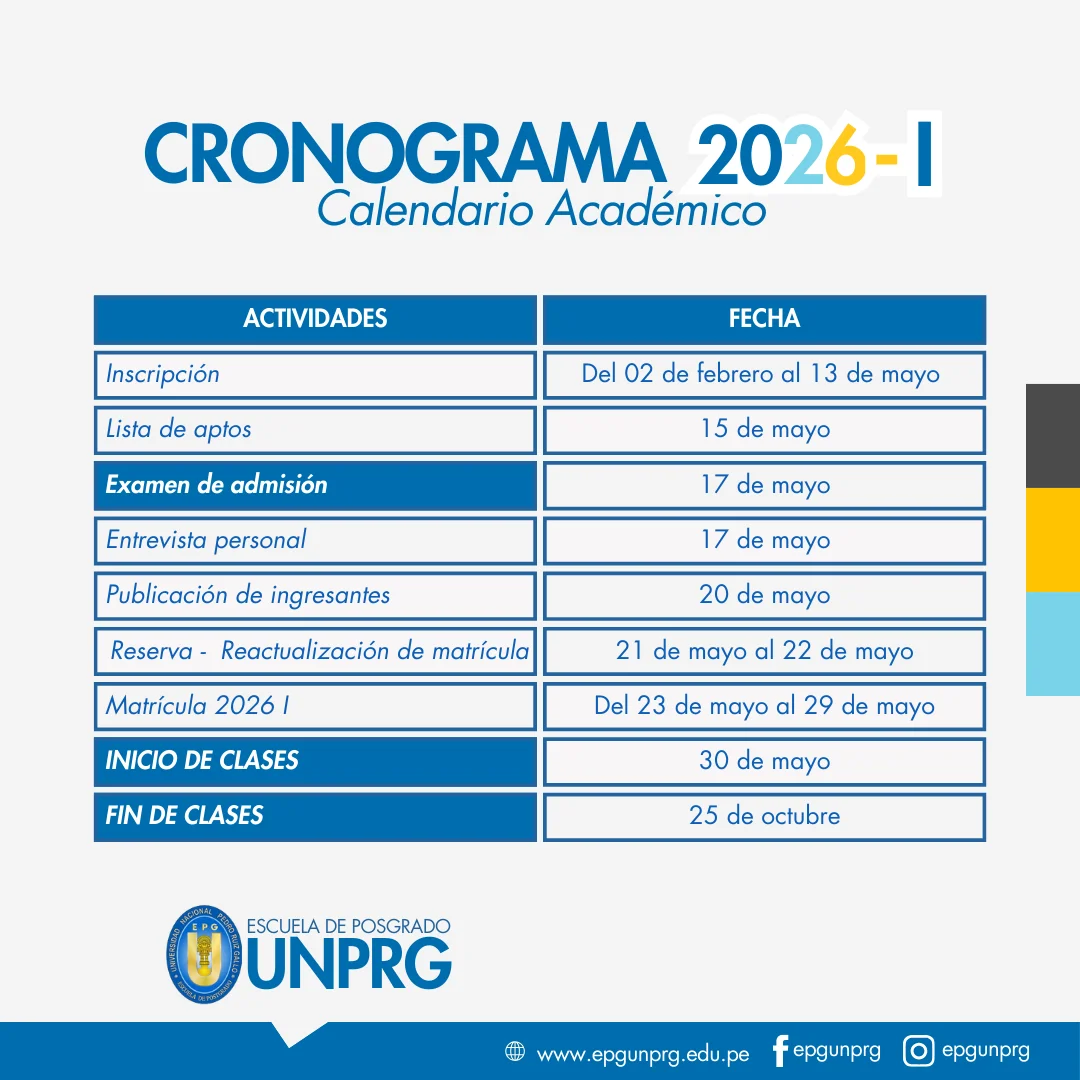
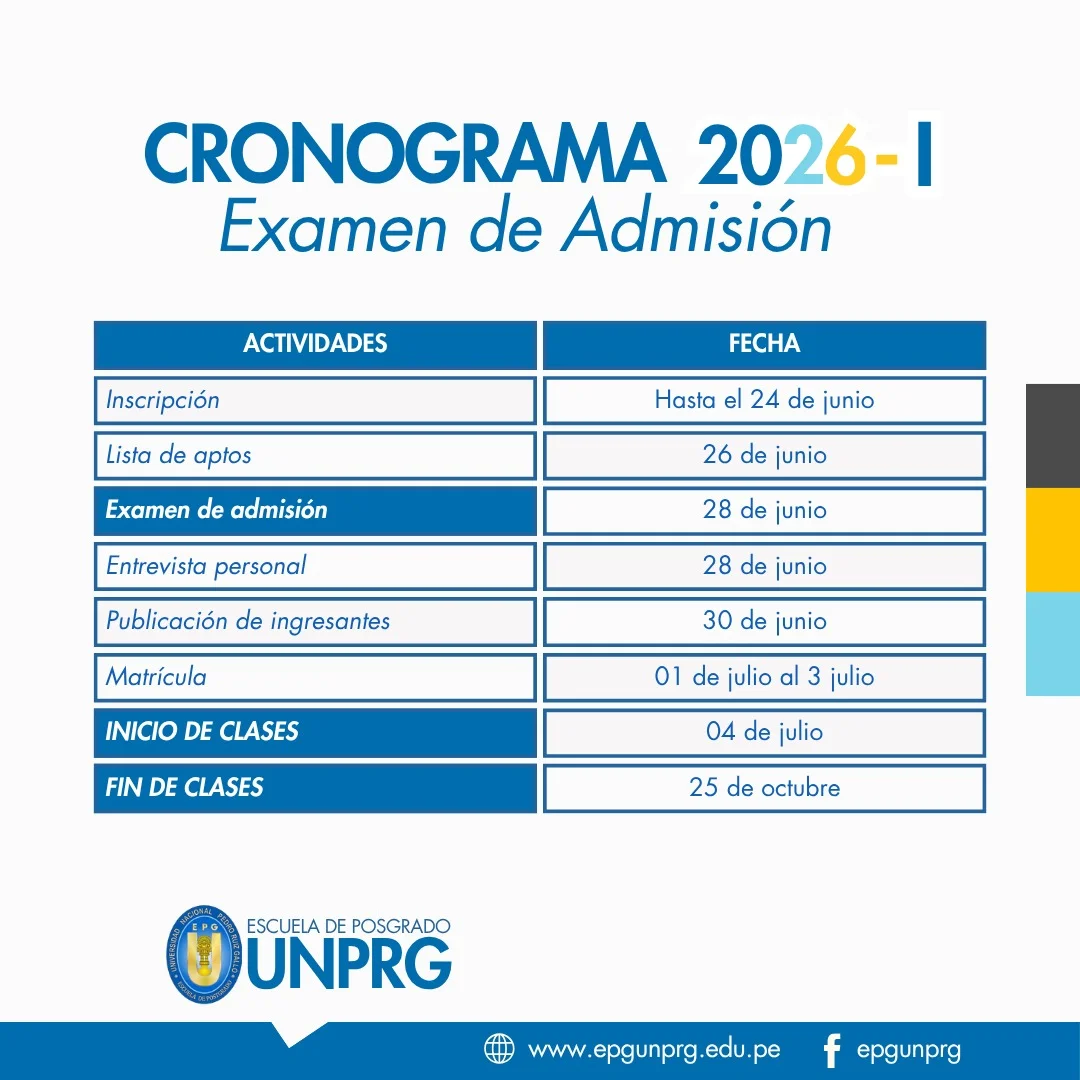
feat: add admission configuration module and schedule image asset

Changed region(s): [[0.0611, 0.275, 0.9167, 0.7944], [0.1833, 0.1528, 0.7639, 0.2444], [0.4278, 0.9472, 0.9472, 1.0]]

diff --git a/src/config/admission.js b/src/config/admission.js
@@ -1,8 +1,7 @@
 export const admissionConfig = {
     cronograma: {
-        examen_admision: 'domingo 17 de Mayo',
-        inicio_conceptos: '23 de Mayo',
-        fecha_fin_inscricion: '13 de Mayo',
+        examen_admision: 'domingo 28 de Junio',
+        fecha_fin_inscricion: '24 de Junio',
         periodo: '2026-I',
         etapa_manual: 'INSCRIPCION', // Valores: 'PREINSCRIPCION', 'INSCRIPCION', 'CERRADO', 'STANDBY' o null
         fechas_control: {
@@ -12,14 +11,14 @@ export const admissionConfig = {
 
             // Inscripción
             inicio_inscripcion: '2026-02-02',
-            fin_inscripcion: '2026-05-13',
+            fin_inscripcion: '2026-06-24',
 
             // Evaluación (Examen y Entrevista)
-            inicio_evaluacion: '2026-05-14',
-            fin_evaluacion: '2026-05-16',
+            inicio_evaluacion: '2026-06-24',
+            fin_evaluacion: '2026-06-28',
 
             // Resultados
-            resultados_publicacion: '2026-05-20',
+            resultados_publicacion: '2026-06-30',
         }
     }
 };
